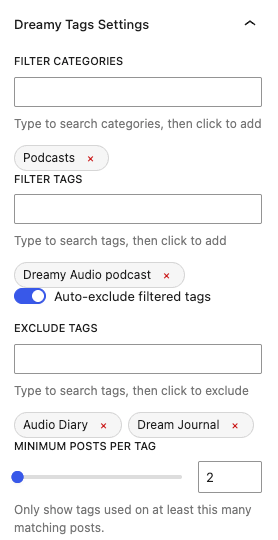
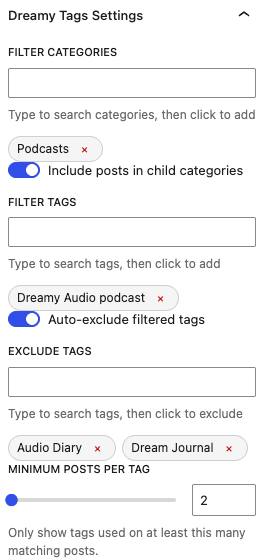
toggle child categories, add block preview image

Changed region(s): [[0.0, 0.0, 0.9588, 1.0], [0.8689, 0.0, 0.9288, 0.0593]]

diff --git a/dreamy-tags/block.js b/dreamy-tags/block.js
@@ -57,9 +57,21 @@
     lineHeight: "18px"
   };
 
+  const previewImage = window.DreamyTagsBlock?.previewImage;
+
   registerBlockType(typeName, {
     edit: (props) => {
-      const attrs = props.attributes || {};
+      const {isPreview, ...attrs} = props.attributes || {};
+      if ( isPreview && previewImage ) {
+        return el("div", useBlockProps(), 
+          el("img", {
+            src: previewImage,
+            alt: "Dreamy Tags block preview",
+            style: { width: "100%", height: "auto", display: "block" }
+          })
+        );
+      }
+
       const blockProps = useBlockProps({ className: `${pluginName}-editor` });
 
       const [catSearch, setCatSearch] = useState("");
@@ -291,6 +303,12 @@
                 })
                 : el("span", { style: { opacity: 0.7 } }, "No categories selected yet.")
             ),
+
+            el(ToggleControl, {
+              label: "Include posts in child categories",
+              checked: !!attrs.children,
+              onChange: (v) => props.setAttributes({ children: v })
+            }),
 
             // Filter Tags picker
             el(ComboboxControl, {

diff --git a/dreamy-tags/includes/class-dreamy-tags-widget.php b/dreamy-tags/includes/class-dreamy-tags-widget.php
@@ -2,7 +2,7 @@
 /**
  * Plugin Name: Dreamy Tags
  * Description: Generates a tag cloud filtered by category and specific tags, with exclusion logic.
- * Version: 1.0.40
+ * Version: 1.0.42
  * Author: Lewis Moten
  */
 
@@ -43,18 +43,39 @@ class Dreamy_Tags_Widget extends WP_Widget {
             'no_found_rows'  => true,
         );
 
+        $tax_query = array();
+
         if ( ! empty( $instance['filter_category_ids'] ) ) {
-            $post_args['category__in'] = array_map( 'intval', (array) $instance['filter_category_ids'] );
+            $tax_query[] = array(
+                'taxonomy'         => 'category',
+                'field'            => 'term_id',
+                'terms'            => array_map( 'intval', (array) $instance['filter_category_ids'] ),
+                'include_children' => ! empty( $instance['children'] ),
+                'operator'         => 'IN',
+            );
         }
 
         if ( ! empty( $instance['filter_tag_ids'] ) ) {
-            $post_args['tag__in'] = array_map( 'intval', (array) $instance['filter_tag_ids'] );
+            $tax_query[] = array(
+                'taxonomy' => 'post_tag',
+                'field'    => 'term_id',
+                'terms'    => array_map( 'intval', (array) $instance['filter_tag_ids'] ),
+                'operator' => 'IN',
+            );
+        }
+
+        if ( count( $tax_query ) > 1 ) {
+            array_unshift( $tax_query, array( 'relation' => 'AND' ) );
+        }
+
+        if ( ! empty( $tax_query ) ) {
+            $post_args['tax_query'] = $tax_query;
         }
 
         $filtered_post_ids = get_posts( $post_args );
 
         if ( empty( $filtered_post_ids ) ) {
-            echo "<p>$no_tags_found</p>";
+            $this->paragraph($no_tags_found);
             echo $args['after_widget'];
             return;
         }
@@ -87,7 +108,7 @@ class Dreamy_Tags_Widget extends WP_Widget {
         );
 
         if ( empty( $kept_tag_ids ) ) {
-            echo "<p>$no_tags_found</p>";
+            $this->paragraph($no_tags_found);
             echo $args['after_widget'];
             return;
         }
@@ -99,7 +120,7 @@ class Dreamy_Tags_Widget extends WP_Widget {
         ) );
 
         if ( empty( $tags_in_use ) || is_wp_error( $tags_in_use ) ) {
-            echo "<p>$no_tags_found</p>";
+            $this->paragraph($no_tags_found);
             echo $args['after_widget'];
             return;
         }
@@ -120,12 +141,14 @@ class Dreamy_Tags_Widget extends WP_Widget {
                 'tag_counts' => $tag_counts
             ) );
         } else {
-            echo "<p>$no_tags_found</p>";
+            $this->paragraph($no_tags_found);
         }
 
         echo $args['after_widget'];
     }
-
+    private function paragraph($txt) {
+        echo '<p>'.esc_html($txt).'</p>';
+    }
     public function dreamy_tags_cloud($a) {
         $min_font = $a['min_font'];
         $max_font = $a['max_font'];
@@ -133,7 +156,7 @@ class Dreamy_Tags_Widget extends WP_Widget {
 
         $subset_counts = array_intersect_key($a['tag_counts'], array_flip($a['include']));
         if (empty($subset_counts)) {
-            echo "<p>$no_tags_found</p>";
+            $this->paragraph($no_tags_found);
             return;
         }
 
@@ -149,7 +172,7 @@ class Dreamy_Tags_Widget extends WP_Widget {
             'hide_empty' => false,
         ]);
         if (empty($terms) || is_wp_error($terms)) {
-            echo "<p>$no_tags_found</p>";
+            $this->paragraph($no_tags_found);
             return;
         }
 
@@ -189,6 +212,7 @@ class Dreamy_Tags_Widget extends WP_Widget {
         $exclude_tag_ids = ! empty( $instance['exclude_tag_ids'] ) ? (array) $instance['exclude_tag_ids'] : array();
 
         $auto_exclude  = isset( $instance['auto_exclude_filter'] ) ? (bool) $instance['auto_exclude_filter'] : true;
+        $children  = isset( $instance['children'] ) ? (bool) $instance['children'] : true;
         ?>
 
         <p>
@@ -218,6 +242,15 @@ class Dreamy_Tags_Widget extends WP_Widget {
                 }
                 ?>
             </select>
+        </p>
+
+        <p>
+            <input class="checkbox"
+                   type="checkbox"
+                   <?php checked( $children ); ?>
+                   id="<?php echo esc_attr( $this->get_field_id( 'children' ) ); ?>"
+                   name="<?php echo esc_attr( $this->get_field_name( 'children' ) ); ?>" />
+            <label for="<?php echo esc_attr( $this->get_field_id( 'children' ) ); ?>">Include posts in child categories</label>
         </p>
 
         <p>
@@ -268,7 +301,11 @@ class Dreamy_Tags_Widget extends WP_Widget {
             ? array_map( 'intval', (array) $new_instance['filter_category_ids'] )
             : array();
 
-        $instance['filter_tag_ids'] = ( ! empty( $new_instance['filter_tag_ids'] ) )
+        $instance['children'] = isset( $new_instance['children'] )
+            ? (bool) $new_instance['children']
+            : true;
+
+            $instance['filter_tag_ids'] = ( ! empty( $new_instance['filter_tag_ids'] ) )
             ? array_map( 'intval', (array) $new_instance['filter_tag_ids'] )
             : array();
 

diff --git a/dreamy-tags/dreamy-tags.php b/dreamy-tags/dreamy-tags.php
@@ -3,7 +3,7 @@
  * Plugin Name:       Dreamy Tags
  * Plugin URI:        https://github.com/lewismoten/dreamy-tags
  * Description:       Generates a tag cloud filtered by categories/tags with exclusion logic.
- * Version:           1.0.40
+ * Version:           1.0.42
  * Author:            Lewis Moten
  * Author URI:        https://lewismoten.com/
  * License:           GPLv2
@@ -25,6 +25,7 @@ add_action( 'widgets_init', 'register_lewismoten_dreamy_tags_widget' );
 function lewismoten_dreamy_tags_shortcode($atts) {
     $a = shortcode_atts(array(
         'cat' => '',
+        'children' => false,
         'tags' =>  '',
         'exclude'  => '',
         'auto_exclude' => true,
@@ -42,14 +43,20 @@ function lewismoten_dreamy_tags_shortcode($atts) {
         $a['auto_exclude'] = true;
     }
 
+    $a['children'] = filter_var( $a['children'], FILTER_VALIDATE_BOOL, FILTER_NULL_ON_FAILURE );
+    if ( $a['children'] === null ) {
+        $a['children'] = true;
+    }
+
     ob_start();
     if(class_exists('Dreamy_Tags_Widget')) {
         the_widget('Dreamy_Tags_Widget', array(
             'filter_category_ids' => $cat_array,
+            'children'            => $a['children'],
             'filter_tag_ids'      => $tag_array,
             'exclude_tag_ids'     => $exclude_array,
             'auto_exclude_filter' => $a['auto_exclude'],
-            'min_count' => $a['min_count'],
+            'min_count'           => $a['min_count'],
         ));
     }
     return ob_get_clean();
@@ -116,5 +123,28 @@ function lewismoten_dreamy_tags_assets() {
         array(),
         $version
     );
+    wp_regsiter_script(
+        'dreamy-tags-block-editor',
+        plugins_url('plock.js', __FILE__),
+        array(
+            'wp-blocks',
+            'wp-element',
+            'wp-block-editor',
+            'wp-components',
+            'wp-data',
+            'wp-core-data',
+            'wp-server-side-render',
+        ),
+        $version,
+        true
+    )
+    wp_localize_script(
+        'dreamy-tags-block-editor',
+        'DreamyTagsBlock',
+        array(
+            'previewImage' => plugins_url( 'assets/block-preview.png', __FILE__ ),
+        )
+    );
+    wp_enqueue_script( 'dreamy-tags-block-editor' );
 }
 add_action( 'enqueue_block_editor_assets', 'lewismoten_dreamy_tags_assets' );

diff --git a/README.md b/README.md
@@ -10,13 +10,14 @@ Dreamy Tags allows you to display a tag cloud filtered by categories and tags. I
 ## Shortcode
 
 ```text
-[dreamy_tags cat="786439348" tags="786439775" exclude="786439762,786439759" auto_exclude="true" min_count="5"]
+[dreamy_tags cat="786439348" children="true" tags="786439775" exclude="786439762,786439759" auto_exclude="true" min_count="5"]
 ```
 
 All arguments are optional. 
 `cat`, `tags`, and `exclude` expect numeric term IDs and are comma-delimited.
 
 * `cat` - Category IDs a post must belong to (at least one)
+* `children` - (boolean, default: true) - Include posts in child categories
 * `tags` - Tag IDs a post must belong to (at least one)
 * `exclude` - Tag IDs excluded from the cloud
 * `auto_exclude` (boolean, default: true) - Excludes filter tags from the cloud
@@ -29,6 +30,7 @@ All arguments are optional.
 Block settings map directly to the shortcode options:
 
 * **Filter Categories** - Post must belong to one of these categories
+* **Include Children** - Posts in child-categories will be included
 * **Filter Tags** - Post must have one of these tags
 * **Exclude Tags** - Tags that will not appear in the cloud
 * **Auto-exclude filtered tags** - Filter tags will not appear in the cloud

diff --git a/CHANGELOG.md b/CHANGELOG.md
@@ -10,4 +10,9 @@
 
 ## 1.0.40 - 2026-01-19
 - stop injecting two lines after last changelog item in readme
+## 1.0.41 - 2026-01-19
+- Toggle to include child categories
+
+## 1.0.42 - 2026-01-19
+- Add block preview image
 
